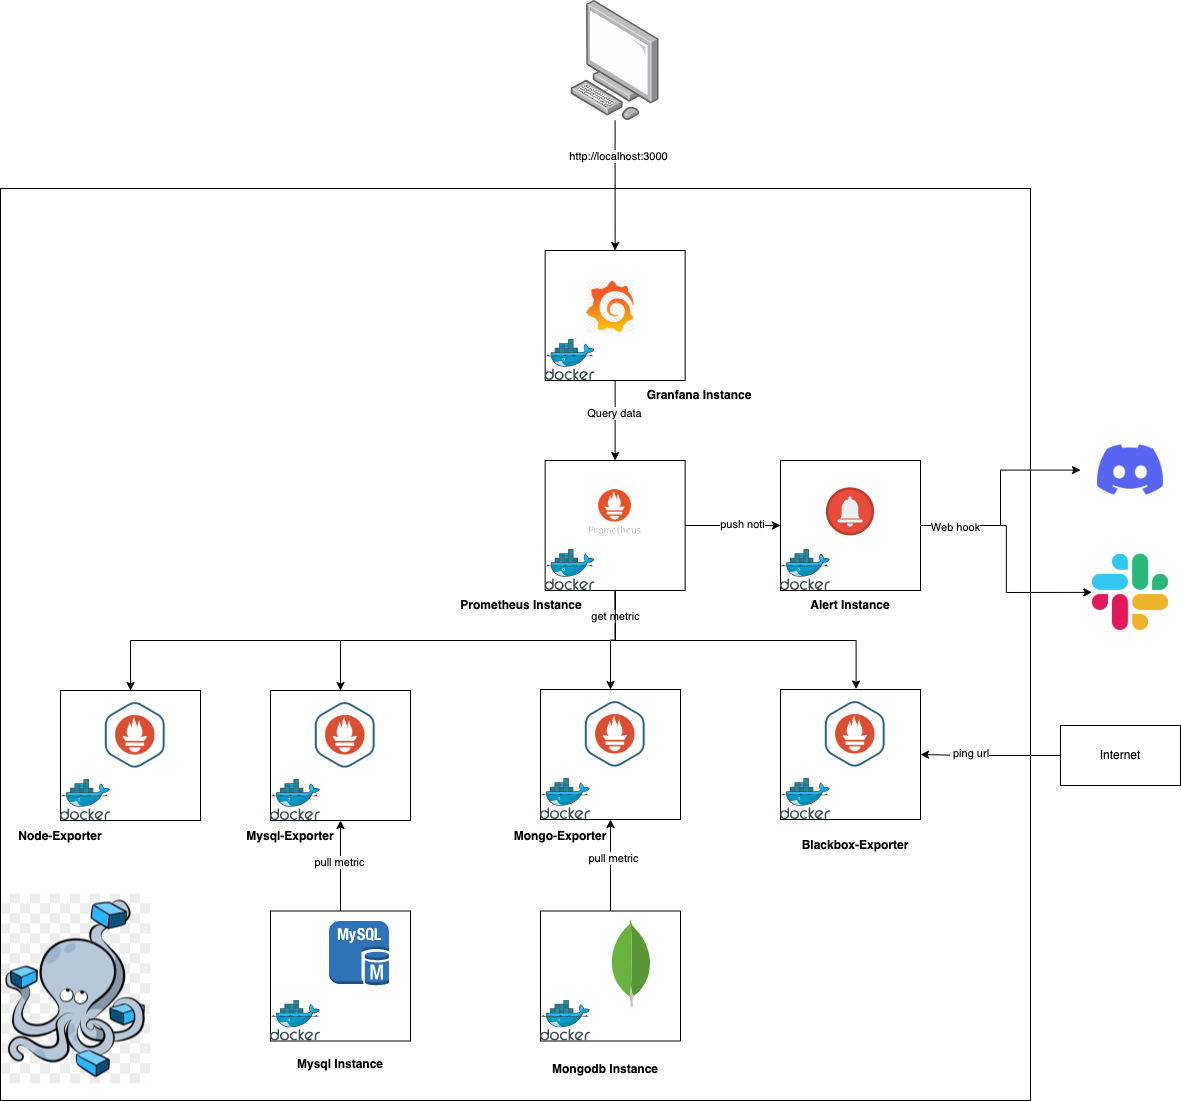
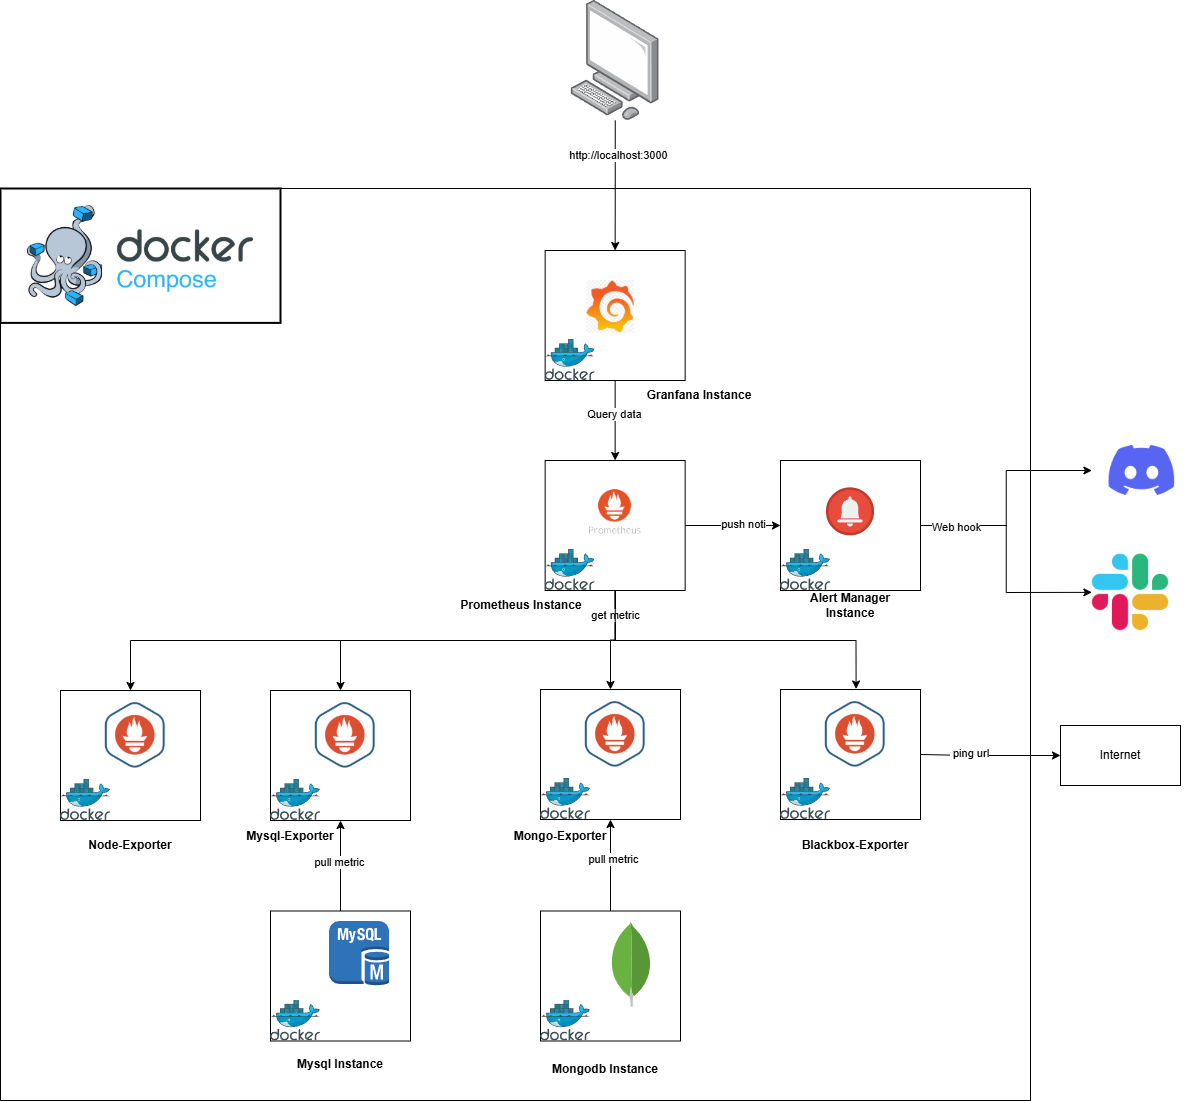
feat: update docker version

diff --git a/README.md b/README.md
@@ -1,89 +1,168 @@
-## Monitoring Stack
-# Giới thiệu
-Dự án này triển khai một hệ thống giám sát (monitoring) đầy đủ, bao gồm:
+# Monitoring Stack
 
-- Prometheus: Thu thập và lưu trữ metrics.
-- Node Exporter: Cung cấp metrics về tài nguyên máy chủ (CPU, RAM, Disk,…).
-- MySQL Exporter: Cung cấp metrics về MySQL (queries, buffer, connections,…).
-- Mongo Exporter: Cung cấp metrics về MongoDB (opcounters, connections,…).
-- Blackbox Exporter: Cung cấp cơ chế giám sát các dịch vụ, endpoint (ICMP, HTTP, DNS,…).
-- Grafana: Tạo các biểu đồ (dashboard) và hiển thị metrics một cách trực quan.
+# Table of Contents
 
-# Infrastructure
+1. [Introduction](#introduction)  
+2. [Infrastructure Overview](#infrastructure-overview)  
+3. [System Requirements](#system-requirements)  
+4. [Setup Instructions](#setup-instructions)  
+   - [Create .env File](#1-create-env-file)
+   - [Run Docker Compose](#2-run-docker-compose)
+   - [Access Grafana](#3-access-grafana)
+   - [Create Dashboards](#4-create-dashboards)
+   - [Configure Notifications](#5-configure-notifications)
+5. [Troubleshooting](#troubleshooting)  
+6. [Production Deployment](#production-deployment)  
+7. [Conclusion](#conclusion)  
+8. [References](#references) 
+
+## Introduction
+
+This project implements a comprehensive monitoring system including tools for metrics collection, visualization, and alerting. The stack comprises:
+
+- Prometheus: Collects and stores metrics.
+- Node Exporter: Provides metrics about server resources (CPU, RAM, Disk, etc.).
+- MySQL Exporter: Provides metrics about MySQL (queries, buffer, connections, etc.).
+- Mongo Exporter: Provides metrics about MongoDB (opcounters, connections, etc.).
+- Blackbox Exporter: Provides mechanisms to monitor services and endpoints (ICMP, HTTP, DNS, etc.).
+- Grafana: Creates dashboards and visualizes metrics intuitively.
+
+## Infrastructure Overview
+
+The monitoring stack utilizes Docker containers to simplify deployment. The overall architecture is as follows:
 ![images](monitoring.png)
 
-# Yêu cầu hệ thống
-Docker và Docker Compose được cài đặt sẵn.
-(Tùy chọn) Máy chủ hoặc môi trường ảo hóa có thể mở các cổng cần thiết (3000 cho Grafana, 9090 cho Prometheus, v.v…).
+# Requirements
+1. Prerequisites:
 
-# Thiết lập dự án
+Installed Docker and Docker Compose.
+Ports open for required services:
+3000 for Grafana
+9090 for Prometheus
+(Configurable via .env)
 
-1. Tạo file .env từ .env.example
-Trong thư mục gốc của dự án, bạn sẽ thấy một file mẫu tên là .env.example. Hãy sao chép file này thành .env:
+2. Optional:
 
+A server or virtualization environment that supports exposing these ports.
+SSL and firewall configurations for production security.
+
+## Setup Instructions
+
+1. Create .env File
+
+In the project's root directory, you will find a sample file named .env.example. Copy this file and rename it to .env:
 ```bash
 $ cp .env.example .env
 ```
+Then, open the .env file to adjust configurations (if necessary).
 
-Tiếp đó, mở file .env để điều chỉnh các cấu hình (nếu cần).
+2. Run Docker Compose
 
-2. Chạy Docker Compose
-Sau khi cấu hình .env xong, bạn chỉ cần chạy:
-
+After configuring .env, simply execute:
 ```bash
 $ docker-compose up -d --build
 ```
+This command will pull the necessary images and start the containers:
 
-Lệnh này sẽ tải các image cần thiết, khởi chạy các container:
+- grafana.
+- prometheus.
+- node-exporter.
+- mysql-exporter.
+- mongo-exporter.
+- blackbox-exporter.
 
-grafana
-prometheus
-node-exporter
-mysql-exporter
-mongo-exporter
-blackbox-exporter
-Lưu ý: Quá trình pull image và khởi động container có thể mất một ít thời gian tùy tốc độ mạng và cấu hình máy.
+Note: The process of pulling images and starting containers may take some time, depending on your network speed and machine configuration.
 
-3. Truy cập Grafana
-Mặc định, Grafana lắng nghe (listen) trên cổng 3000.
-Hãy mở trình duyệt và truy cập:
-Link:[`http://localhost:3000`]
-Tài khoản của Grafana đã được config trong .env
+3. Access Grafana
 
-4. Tạo Dashboard trong Grafana
-Sau khi đăng nhập thành công, để tạo dashboard, bạn có thể:
+- By default, Grafana listens on port 3000.
+- Open your browser and navigate to: [http://localhost:3000].
+- The Grafana account credentials are configured in the .env file.
 
-Tự tạo thủ công (Create > Dashboard > Add new panel).
-Import Dashboard có sẵn từ Grafana.com hoặc file JSON.
-Import Dashboard bằng “Dashboard ID”
-Ví dụ, bạn có thể thử một số dashboard phổ biến:
+4. Create Dashboards in Grafana
 
-Node Exporter Full: ID 1860
-MySQL Exporter: ID 7362 (hoặc 6239, tùy sở thích)
-MongoDB (Percona): ID 2583
-Blackbox Exporter: ID 7587 (hoặc dashboard khác phù hợp)
+- After successfully logging in, to create dashboards, you can:
 
-# Import dashboard
+a, Manually create dashboards 
 
-Chọn Create (dấu +) > Import.
-Nhập “Dashboard ID” (VD: 1860), rồi nhấn “Load”.
-Ở phần Options, chọn data source phù hợp (thông thường là “Prometheus”).
-Bấm Import để hoàn tất.
-Dashboard sau đó sẽ xuất hiện trong danh sách Dashboard của Grafana.
+- On the Grafana interface: (Create > Dashboard > Add new panel).
+- Then configure the dashboards manually based on the list of metrics.
 
-# Gỡ lỗi và xử lý sự cố
-Grafana: Nếu không truy cập được localhost:3000, có thể cổng 3000 bị bận hoặc firewall chặn. Kiểm tra bằng docker ps xem container Grafana đã chạy chưa.
-Prometheus: Nếu localhost:9090 không hoạt động, kiểm tra logs của container Prometheus (docker logs prometheus).
-Exporter: Luôn kiểm tra logs khi có bất kỳ exporter nào không “UP”.
+b, Import from a template file  
 
-# Kết luận
-Với các bước trên, bạn đã sở hữu một hệ thống monitoring cơ bản. Tùy vào nhu cầu, bạn có thể mở rộng thêm exporter khác, hoặc thêm nhiều dashboard chi tiết hơn trong Grafana.
+- Import pre-existing dashboards from JSON files (e.g., the Mongo dashboard in /granfana_conf/dashboards/mongo-dashboard.json).
 
-# Tham khảo
-[Grafana Official Docs](https://grafana.com/docs/grafana/latest/).
-[Prometheus Official Docs](https://prometheus.io/docs/prometheus/latest/getting_started/).
-[Node Exporter](https://github.com/prometheus/node_exporter).
-[MySQL Exporter](https://github.com/prometheus/mysqld_exporter).
-[MongoDB Exporter](https://github.com/percona/mongodb_exporter).
-[Blackbox Exporter](https://github.com/prometheus/blackbox_exporter).
-[Alert Manager](https://github.com/prometheus/alertmanager).
+c,  Use the open-source community
+
+- For example, you can try popular dashboards from the Grafana community by importing dashboards using their "Dashboard ID":
+
++, Node Exporter Full: ID 1860
+
++, MySQL Exporter: ID 7362 (or 6239, depending on your preference)
+
++, MongoDB (Percona): ID 2583
+
++, Blackbox Exporter: ID 7587 (or other suitable dashboards)
+
+5. Configure Notifications
+
+a, Using  Alert Manager
+
+- Define alert rules in Prometheus (/prometheus_conf/prometheus.yml).
+- Configure Alert Manager with routing rules (/alertmanager_conf/alert-manager.yml).
+- Alerts can be viewed in Grafana under Alerting > Alert rules.
+
+b, Using Grafana without Alert Manager
+
+- Set up notification channels via Configuration > Notification Channels.
+- Define alerts directly on Grafana panels in your dashboards.
+- Supported channels include:
+
++, Email
+
++, Slack
+
++, Webhook
+
++, Microsoft Teams, and more.
+
+## Debugging and Troubleshooting
+
+- If you see a Ports are not available error, it means a process on your local machine is already using a port that the system needs. The solution is to check which instance in the Docker Compose file is using that port and change the exposed port to avoid conflicts.
+- Grafana: If you cannot access localhost:3000, the port may be occupied, or the firewall may be blocking it. Check if the Grafana container is running using docker ps.
+- Prometheus: If localhost:9090 is not working, check the Prometheus container logs (docker logs prometheus).
+- Exporter: Always check logs if any exporter is not “UP.”
+
+## Production Deployment
+
+For production, ensure secure communication between Prometheus and exporters, especially when dealing with multiple servers:
+
+1. Security Mechanisms:
+
+- Reverse Proxy with Authentication
+- SSL Encryption
+- Firewalls
+- Virtual Private Cloud (VPC)
+
+2. Exporter Deployment:
+
+- Deploy exporters on individual servers.
+- Use private networking or secure public API access
+
+## Conclusion
+
+With this guide, you’ve set up a basic monitoring system. Depending on your requirements, you can:
+
+- Add more exporters for extended monitoring.
+- Create detailed and customized Grafana dashboards.
+This stack offers a scalable and modular solution to meet diverse monitoring needs.
+
+## References
+
+- [Grafana Official Docs](https://grafana.com/docs/grafana/latest/).
+- [Prometheus Official Docs](https://prometheus.io/docs/prometheus/latest/getting_started/).
+- [Node Exporter](https://github.com/prometheus/node_exporter).
+- [MySQL Exporter](https://github.com/prometheus/mysqld_exporter).
+- [MongoDB Exporter](https://github.com/percona/mongodb_exporter).
+- [Blackbox Exporter](https://github.com/prometheus/blackbox_exporter).
+- [Alert Manager](https://github.com/prometheus/alertmanager).
